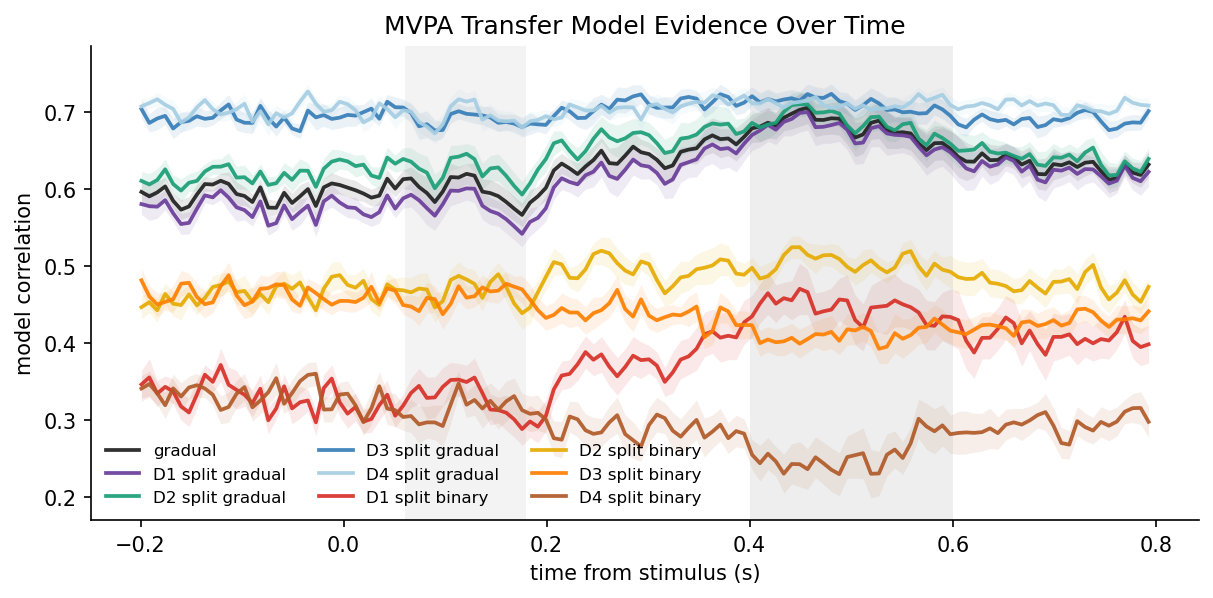
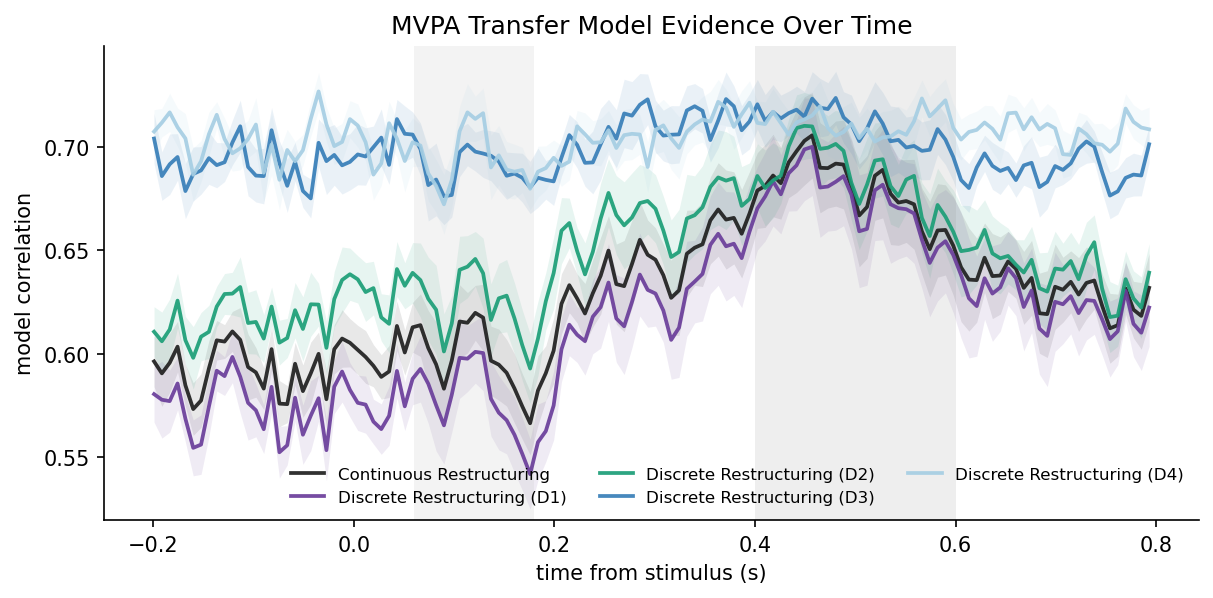
.

diff --git a/code/presentation_figure.py b/code/presentation_figure.py
@@ -285,57 +285,27 @@ def plot_presentation_connect_model_timecourse(output_dir, figures_dir):
             linewidth=0,
             zorder=0,
         )
-    labels = [
-        "gradual",
-        "two_stage_binary_D1",
-        "two_stage_hybrid_D1",
-        "two_stage_binary_D2",
-        "two_stage_hybrid_D2",
-        "two_stage_binary_D3",
-        "two_stage_hybrid_D3",
-        "two_stage_binary_D4",
-        "two_stage_hybrid_D4",
+    conn_models = [
+        ("gradual",            "Continuous Restructuring", "#1f1f1f"),
+        ("two_stage_hybrid_D1", "Discrete Restructuring (D1)", "#6a3d9a"),
+        ("two_stage_hybrid_D2", "Discrete Restructuring (D2)", "#1b9e77"),
+        ("two_stage_hybrid_D3", "Discrete Restructuring (D3)", "#377eb8"),
+        ("two_stage_hybrid_D4", "Discrete Restructuring (D4)", "#a6cee3"),
     ]
-    for label in labels:
-        g = d[d["model_label"] == label].sort_values("time_center_sec")
+    for model_key, plot_label, color in conn_models:
+        g = d[d["model_label"] == model_key].sort_values("time_center_sec")
         if g.empty:
             continue
-        lw = 1.0
-        alpha = 0.55
-        zorder = 1
-        if label in ["gradual", "two_stage_binary_D1", "two_stage_hybrid_D1"]:
-            lw = 2.4
-            alpha = 1.0
-            zorder = 3
-        plot_label = label.replace("two_stage_", "")
-        plot_label = plot_label.replace("_", " ")
-        ax.plot(
-            g["time_center_sec"],
-            g["rho_mean"],
-            color=model_color(label),
-            linewidth=lw,
-            alpha=alpha,
-            label=plot_label,
-            zorder=zorder,
-        )
-        if label in ["gradual", "two_stage_binary_D1", "two_stage_hybrid_D1"]:
-            x = g["time_center_sec"].to_numpy(float)
-            y = g["rho_mean"].to_numpy(float)
-            y_sem = g["rho_sem"].to_numpy(float)
-            ax.fill_between(
-                x,
-                y - y_sem,
-                y + y_sem,
-                color=model_color(label),
-                alpha=0.13,
-                linewidth=0,
-                zorder=zorder - 1,
-            )
+        x = g["time_center_sec"].to_numpy(float)
+        y = g["rho_mean"].to_numpy(float)
+        y_sem = g["rho_sem"].to_numpy(float)
+        ax.plot(x, y, color=color, linewidth=1.8, alpha=0.92, label=plot_label)
+        ax.fill_between(x, y - y_sem, y + y_sem, color=color, alpha=0.12, linewidth=0)
     ax.axhline(0, color="0.25", linewidth=0.8)
     ax.set_xlabel("time from stimulus (s)")
     ax.set_ylabel("model correlation")
     ax.set_title("Connectivity Model Evidence Over Time")
-    ax.legend(frameon=False, fontsize=8, ncol=3, loc="lower center")
+    ax.legend(frameon=False, fontsize=8, ncol=2, loc="lower center")
     setup_axis(ax)
     fig.tight_layout()
     fig_path = figures_dir / "presentation_connectivity_model_timecourse_top10.png"
@@ -836,41 +806,15 @@ def plot_presentation_mvpa_model_timecourse(output_dir, figures_dir):
         "presentation MVPA model-timecourse output",
     )
     fig, ax = plt.subplots(figsize=(8.2, 4.1))
-    labels = [
-        "gradual",
-        "split_gradual_D1",
-        "split_gradual_D2",
-        "split_gradual_D3",
-        "split_gradual_D4",
-        "split_binary_D1",
-        "split_binary_D2",
-        "split_binary_D3",
-        "split_binary_D4",
+    mvpa_models = [
+        ("gradual",         "Continuous Restructuring",    "#1f1f1f"),
+        ("split_gradual_D1", "Discrete Restructuring (D1)", "#6a3d9a"),
+        ("split_gradual_D2", "Discrete Restructuring (D2)", "#1b9e77"),
+        ("split_gradual_D3", "Discrete Restructuring (D3)", "#377eb8"),
+        ("split_gradual_D4", "Discrete Restructuring (D4)", "#a6cee3"),
     ]
-    legend_labels = {
-        "gradual": "gradual",
-        "split_gradual_D1": "D1 split gradual",
-        "split_gradual_D2": "D2 split gradual",
-        "split_gradual_D3": "D3 split gradual",
-        "split_gradual_D4": "D4 split gradual",
-        "split_binary_D1": "D1 split binary",
-        "split_binary_D2": "D2 split binary",
-        "split_binary_D3": "D3 split binary",
-        "split_binary_D4": "D4 split binary",
-    }
-    colors = {
-        "gradual": "#1f1f1f",
-        "split_gradual_D1": "#6a3d9a",
-        "split_gradual_D2": "#1b9e77",
-        "split_gradual_D3": "#377eb8",
-        "split_gradual_D4": "#a6cee3",
-        "split_binary_D1": "#d73027",
-        "split_binary_D2": "#e6ab02",
-        "split_binary_D3": "#ff7f00",
-        "split_binary_D4": "#b15928",
-    }
     y_vals = []
-    for label in labels:
+    for label, plot_label, color in mvpa_models:
         g = d[d["model_label"] == label].sort_values("time_sec")
         if g.empty:
             continue
@@ -881,26 +825,11 @@ def plot_presentation_mvpa_model_timecourse(output_dir, figures_dir):
         else:
             y = g["rho"].to_numpy(float)
             y_sem = np.zeros(y.shape, dtype=float)
-        color = colors[label]
         for val in y:
             if np.isfinite(val):
                 y_vals.append(float(val))
-        ax.plot(
-            x,
-            y,
-            color=color,
-            linewidth=1.8,
-            alpha=0.92,
-            label=legend_labels[label],
-        )
-        ax.fill_between(
-            x,
-            y - y_sem,
-            y + y_sem,
-            color=color,
-            alpha=0.10,
-            linewidth=0,
-        )
+        ax.plot(x, y, color=color, linewidth=1.8, alpha=0.92, label=plot_label)
+        ax.fill_between(x, y - y_sem, y + y_sem, color=color, alpha=0.10, linewidth=0)
     ax.axhline(0, color="0.25", linewidth=0.8)
     ax.axvspan(0.06, 0.18, color="0.75", alpha=0.18, linewidth=0)
     ax.axvspan(0.40, 0.60, color="0.55", alpha=0.14, linewidth=0)
@@ -1010,30 +939,20 @@ def plot_presentation_mvpa_window_model(output_dir, figures_dir):
     fig.savefig(fig_path, dpi=150, bbox_inches="tight")
     plt.close(fig)
 
-    fig, axes = plt.subplots(2, 5, figsize=(14.8, 6.6))
-    plot_matrix(axes[0, 0], template_matrix("gradual"), "gradual", "viridis", 0, 1)
+    fig, axes = plt.subplots(1, 5, figsize=(14.8, 3.4))
+    plot_matrix(axes[0], template_matrix("gradual"),
+                "Continuous Restructuring", "viridis", 0, 1)
     for idx, split_day in enumerate([1, 2, 3, 4], start=1):
         plot_matrix(
-            axes[0, idx],
+            axes[idx],
             template_matrix("split_gradual", split_day=split_day),
-            f"D{split_day} split gradual",
-            "viridis",
-            0,
-            1,
-        )
-    axes[1, 0].axis("off")
-    for idx, split_day in enumerate([1, 2, 3, 4], start=1):
-        plot_matrix(
-            axes[1, idx],
-            template_matrix("split_binary", split_day=split_day),
-            f"D{split_day} split binary",
+            f"Discrete Restructuring (D{split_day})",
             "viridis",
             0,
             1,
         )
     fig.suptitle("MVPA Transfer Model Predictions")
-    fig.subplots_adjust(left=0.04, right=0.99, bottom=0.06, top=0.88)
-    fig.subplots_adjust(wspace=0.34, hspace=0.42)
+    fig.subplots_adjust(left=0.04, right=0.99, bottom=0.06, top=0.82, wspace=0.34)
     model_path = figures_dir / "presentation_mvpa_window_transfer_model_predictions.png"
     fig.savefig(model_path, dpi=150, bbox_inches="tight")
     plt.close(fig)
